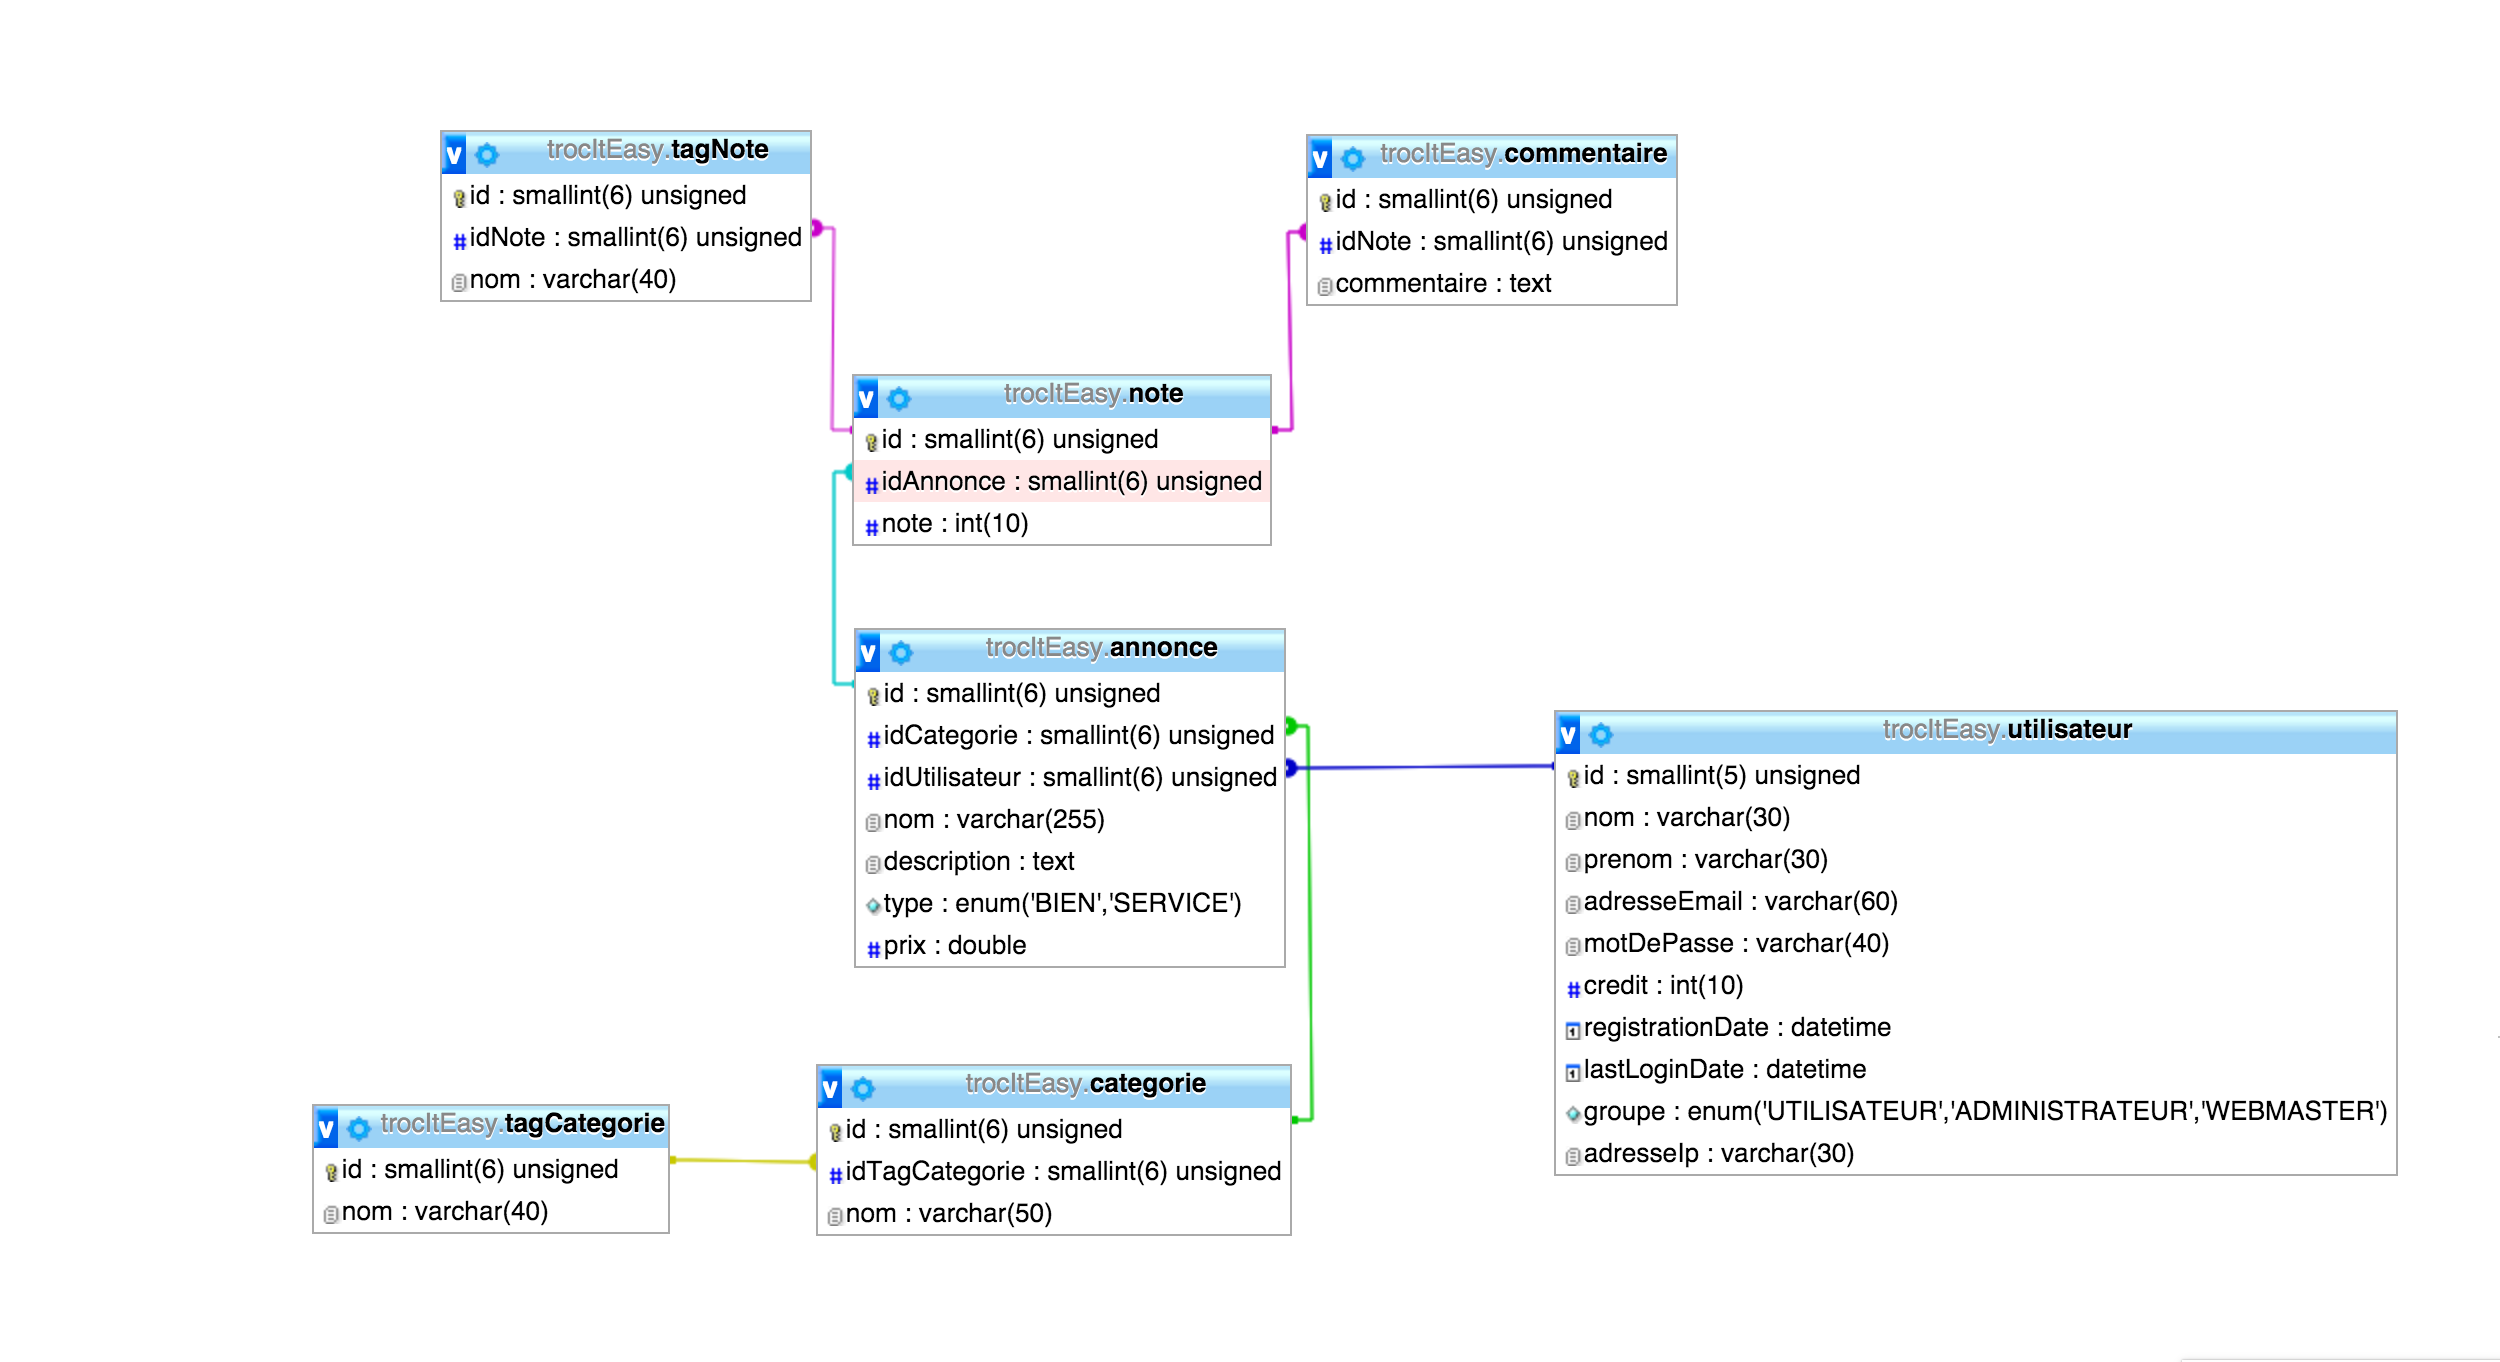
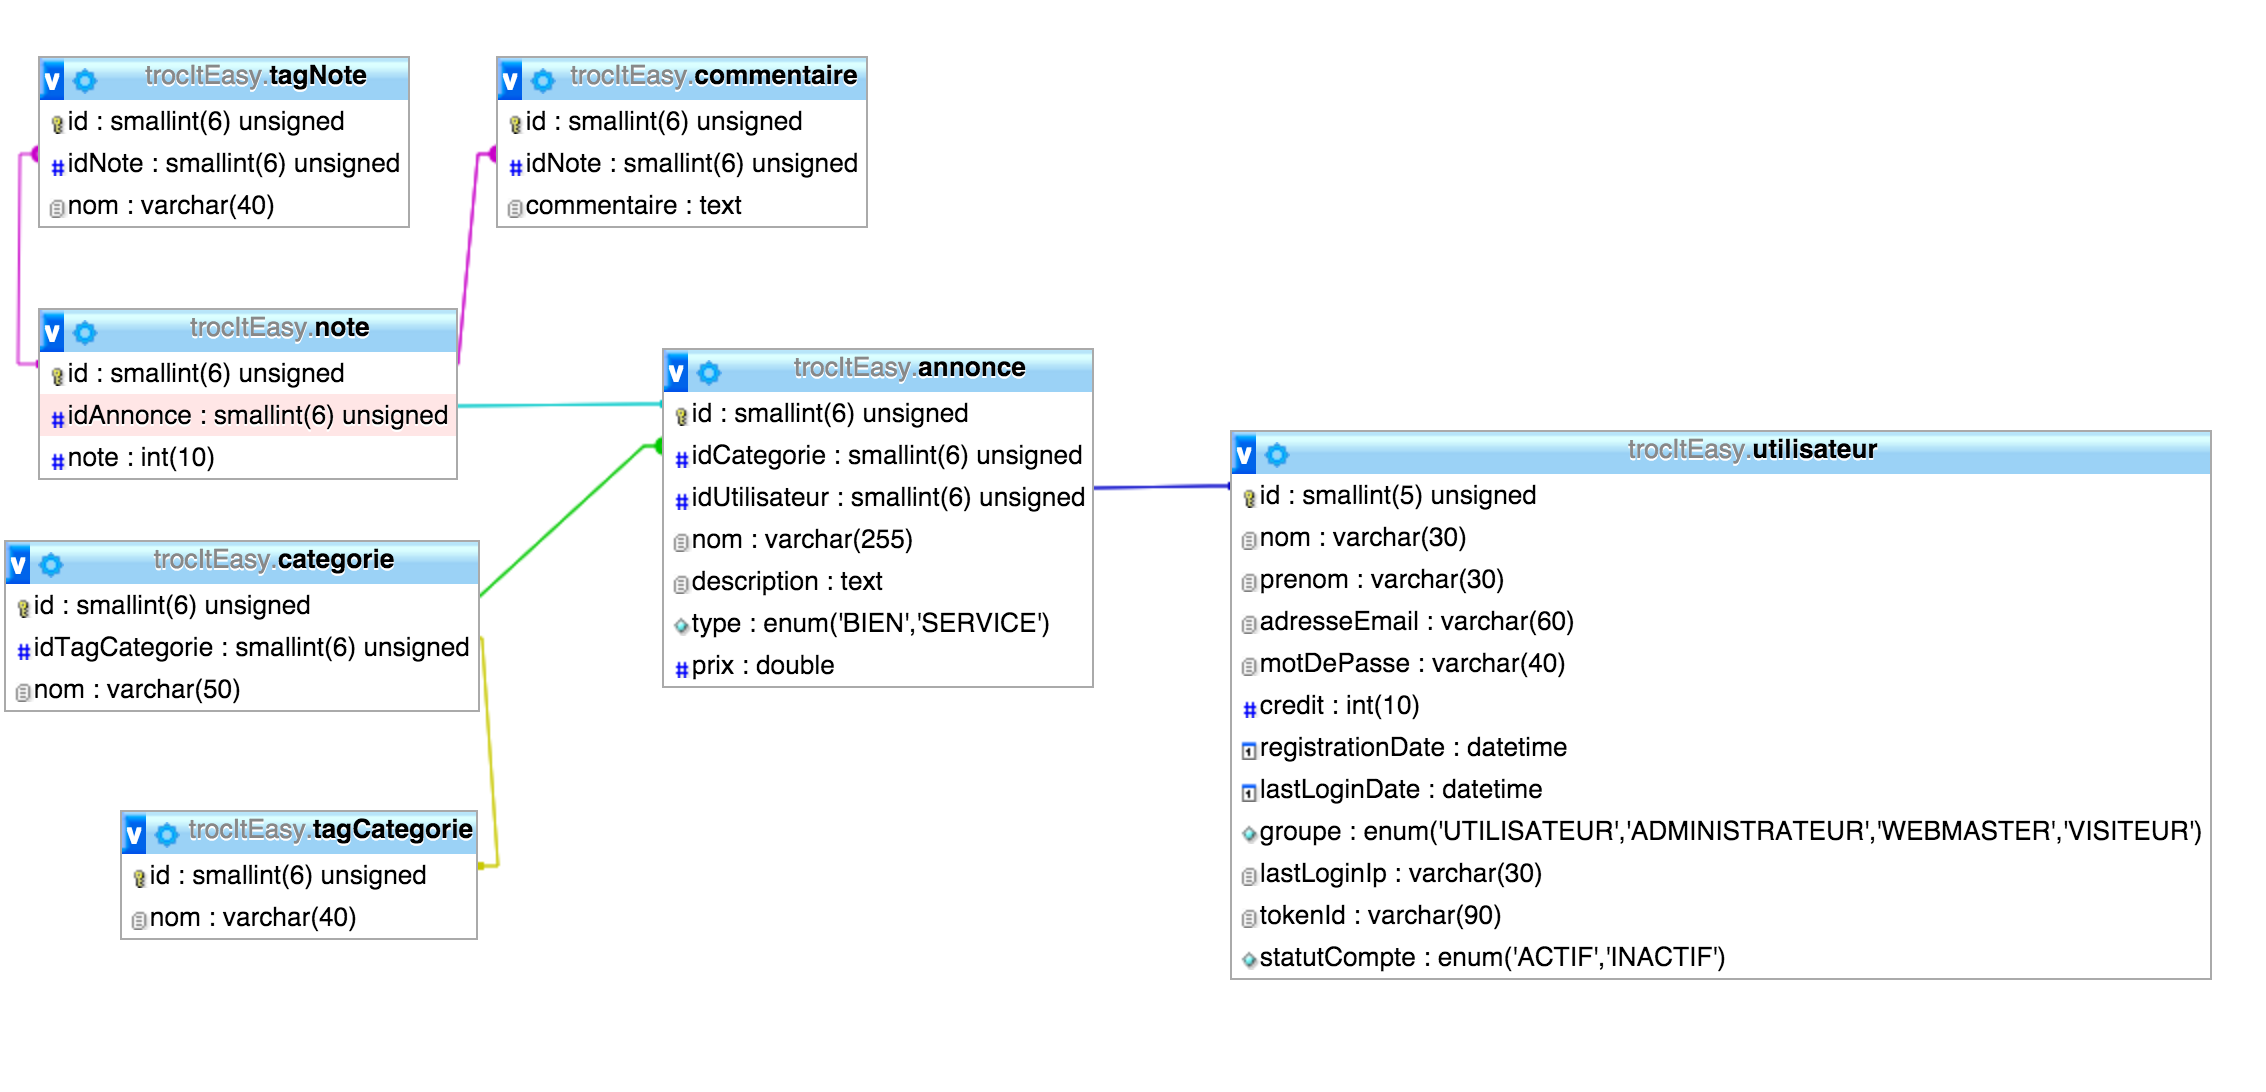
-Modification du MCD -Export de la BDD -Gestion d'une checkbox à l'inscription (termes et conditions)

diff --git a/assets/theme_1/js/applications/utilisateurs/utilisateurs_inscription.js b/assets/theme_1/js/applications/utilisateurs/utilisateurs_inscription.js
@@ -4,15 +4,27 @@ $('#inscriptionForm').on('submit',function(e){
 	
 	$.post(form.attr('action'), form.serialize(), function(data) {
         if (data.status == true) {
-            $('#inscriptionForm').fadeOut("slow", function(){
-                $("#inscriptionValide").addClass("fadeInDown",1000).show();
-            });
+            if($('input[name="termesEtConditions"]').is(":checked")){
+                $("#termesAlert").hide();
+                $('#inscriptionForm').fadeOut("slow", function(){
+                    $("#inscriptionValide").addClass("fadeInDown",1000).show();
+                });
+            } else {
+                $("#termesAlert").show();
+            }
             
         }else{
             $.each(data.errors[0], function(key, val) {
-                form.find('input[name="'+ key +'"]').next().next().remove();
-                form.find('input[name="'+ key +'"]').next().remove();
-                form.find('input[name="'+ key +'"]').after(val);
+                if(key != "termesEtConditions") {
+                    if($('input[name="termesEtConditions"]').is(":checked")){
+                        $("#termesAlert").hide();
+                    } else {
+                        $("#termesAlert").show();
+                    }
+                    form.find('input[name="'+ key +'"]').next().next().remove();
+                    form.find('input[name="'+ key +'"]').next().remove();
+                    form.find('input[name="'+ key +'"]').after(val);
+                }
             });
         }
     }, "json");

diff --git a/application/views/utilisateurs/inscription.php b/application/views/utilisateurs/inscription.php
@@ -14,31 +14,32 @@
             <form id="inscriptionForm" action="<?php echo base_url('utilisateurs/do_inscription'); ?>">
               <div class="form-group">
                 <label for="input-name">Nom : </label>
-                <input type="text" class="form-control" id="input-name" name="nom" placeholder="Username">
+                <input type="text" class="form-control" id="input-name" name="nom" placeholder="Nom" />
               </div>
               <div class="form-group">
                 <label for="first-name">Prénom :</label>
-                <input type="text" class="form-control" id="first-name" name="prenom" placeholder="First Name">
+                <input type="text" class="form-control" id="first-name" name="prenom" placeholder="Prénom" />
               </div>
               <div class="form-group">
                 <label for="inputEmail">Adresse email :</label>
-                <input type="email" class="form-control" id="inputEmail" name="adresseEmail" placeholder="Email">
+                <input type="email" class="form-control" id="inputEmail" name="adresseEmail" placeholder="Adresse email" />
               </div>
       <div class="form-group">
                 <label for="inputEmail">Confirmation de l'adresse email :</label>
-                <input type="email" class="form-control" id="inputEmail" name="adresseEmailConfirm" placeholder="Email">
+                <input type="email" class="form-control" id="inputEmail" name="adresseEmailConfirm" placeholder="Confirmation de l'adresse email" />
               </div>
               <div class="form-group">
                 <label for="inputPassword">Mot de passe :</label>
-                <input type="password" class="form-control" id="inputPassword" name="motDePasse" placeholder="Password">
+                <input type="password" class="form-control" id="inputPassword" name="motDePasse" placeholder="Mot de passe" />
               </div>
       <div class="form-group">
                 <label for="inputPassword">Confirmation du mot de passe :</label>
-                <input type="password" class="form-control" id="inputPassword" name="motDePasseConfirm" placeholder="Password">
+                <input type="password" class="form-control" id="inputPassword" name="motDePasseConfirm" placeholder="Confirmation du mot de passe" />
               </div>
               <div class="checkbox">
                 <label>
-                  <input type="checkbox"> J'accepte les <a href="<?php echo base_url()."contact/index"; ?>">termes et les conditions</a></label>
+                  <input type="checkbox" name="termesEtConditions" value="on"/> <span>J'accepte les <a href="<?php echo base_url()."contact/index"; ?>">termes et les conditions</a></span></label><br />
+                  <div class="alert alert-danger" id="termesAlert" style="display:none">Vous devez accepter les termes et conditions pour terminer votre inscription.</div>
               </div>
               <button type="submit" class="btn btn-primary">Register</button>
             </form>

diff --git a/application/controllers/Utilisateurs.php b/application/controllers/Utilisateurs.php
@@ -35,6 +35,7 @@ class Utilisateurs extends CI_Controller {
 		$this->form_validation->set_rules('adresseEmailConfirm', '"Adresse email confirmation"', 'trim|required|encode_php_tags');
 		$this->form_validation->set_rules('motDePasse', '"Mot de passe"', 'trim|required|matches[motDePasseConfirm]|encode_php_tags');
 		$this->form_validation->set_rules('motDePasseConfirm', '"Mot de passe confirmation"', 'trim|required|encode_php_tags');
+		$this->form_validation->set_rules('termesEtConditions', 'Termes', 'callback_accepter_termes');
 		
 		// Si le formulaire est correctement renseigné
 		if($this->form_validation->run())
@@ -107,4 +108,21 @@ class Utilisateurs extends CI_Controller {
 		header('Content-type: application/json');
 		exit(json_encode($response));
 	}
+	
+	
+	function accepter_termes()
+	{
+		//if (isset($_POST['accept_terms_checkbox']))
+        if ($this->input->post('termesEtConditions'))
+		{
+			return TRUE;
+		}
+		else
+		{
+			$error = 'Pour vous inscrire vous devez être d\'accord avec nos conditions.';
+			$this->form_validation->set_message('termesEtConditions', $error);
+			return FALSE;
+		}
+	}
+	
 }
